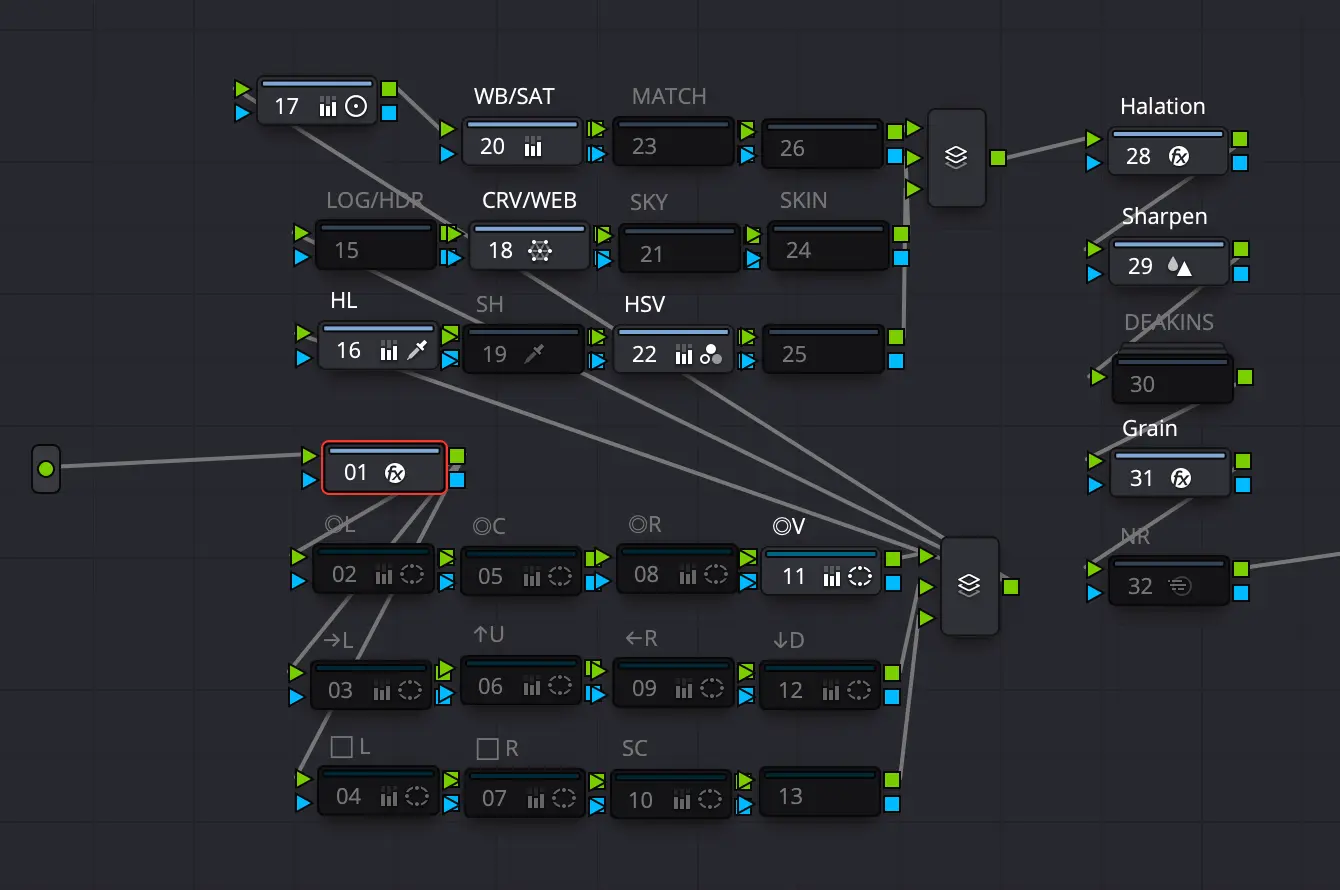
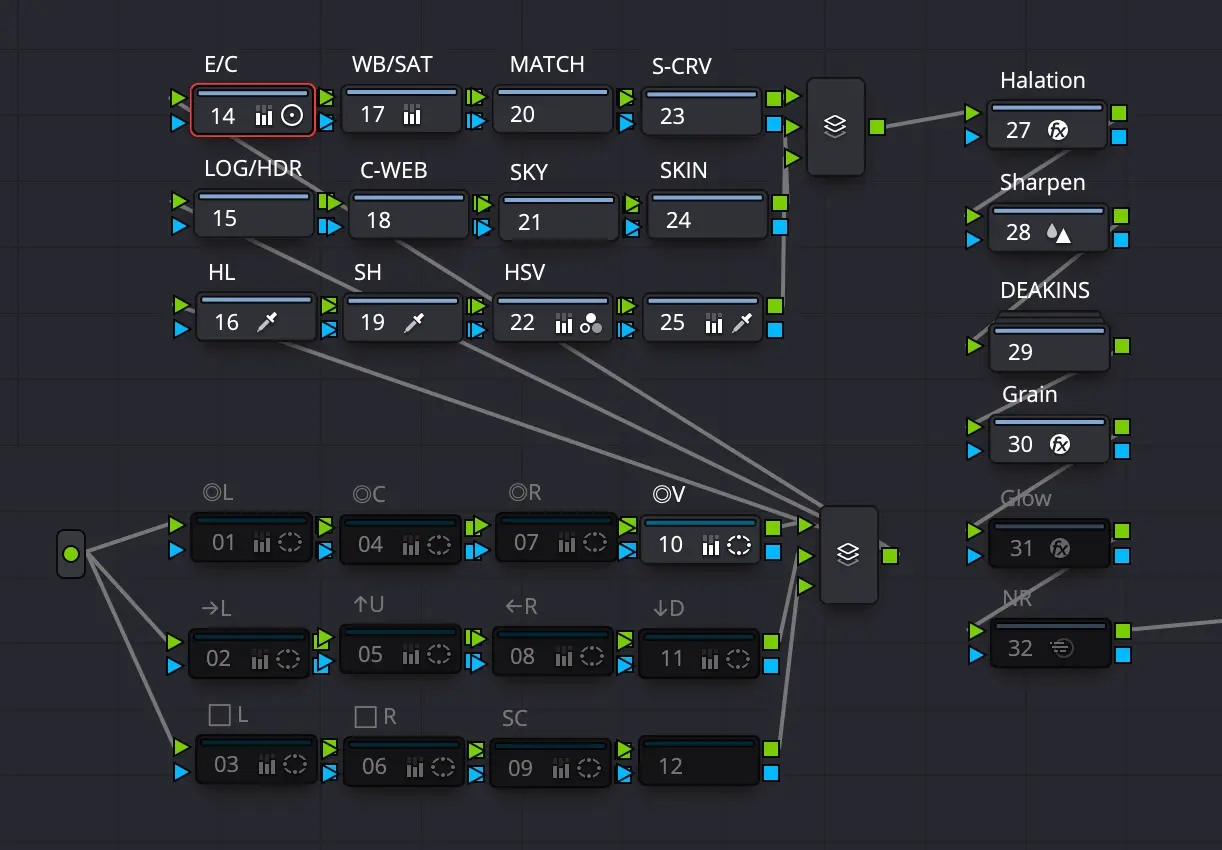
All Links Live

diff --git a/src/components/ShopBars.jsx b/src/components/ShopBars.jsx
@@ -240,7 +240,7 @@ const ASSETS = [
       'Everything from Vol. 1 is included, plus more. Inside you\'ll find everything from aggressive impacts, bass hits, whooshes, and car sounds to organic textures, nature sounds, and experimental ambiances that glue your edits together.',
     ],
     includes: [
-      'ZIP (1.2GB) — 691 WAV files, 19 categories',
+      'ZIP (1.2GB), 691 WAV files, 19 categories',
     ],
     perks: [
       'Compatible with any editing software',
@@ -255,13 +255,15 @@ const ASSETS = [
     slug: 'ovrly',
     title: 'Cinestoke Overlays Pack',
     price: '$20.00',
+    checkoutUrl: 'https://buy.polar.sh/polar_cl_XxUBo1FdsIkNGW1yxyiqyk3azHGZUT2e8d1MZ30ra3L',
     tagline: 'Film grain, light leaks & cinematic texture overlays',
     paragraphs: [
       'The exact overlays baked into every Cinestoke production. 185+ assets across 9 categories. Everything you need to add instant cinematic texture to any footage.',
       "Inside you'll find film grain, dust and noise, film burns, lens flares, fire elements, vintage VHS and Super 8 textures, whip transitions, and a full library of texture stills. Drag, drop, set the blend mode to Screen or Overlay, and you're done.",
     ],
     includes: [
-      'ZIP (3.03GB) — 185 files, 9 categories',
+      'ZIP (1.83GB), Main pack',
+      'ZIP (1.2GB), Vintage pack',
     ],
     perks: [
       'Compatible with any editing software',
@@ -283,7 +285,7 @@ const ASSETS = [
       'Inside you\'ll find car sounds, impacts, bass hits, whooshes, braams, risers, nature sounds, punch sounds, and filmic textures that make every cut land harder.',
     ],
     includes: [
-      'ZIP (872.4MB) — 517 WAV files, 12 categories',
+      'ZIP (872.4MB), 517 WAV files, 12 categories',
     ],
     perks: [
       'Compatible with any editing software',
@@ -306,12 +308,18 @@ const GRADE_PACK = {
   slug: 'lutpg',
   title: 'Cinestoke LUTs + Powergrades',
   price: '$35.00',
+  checkoutUrl: 'https://buy.polar.sh/polar_cl_jh480rUCVqaieESyP9kCnhcGnZEe9ffImmwRh2UA9wc',
   icon: '🎨',
   paragraphs: [
-    'In this pack you will receive all my specially designed LUTs and my easy "One Click" Powergrades to enhance your videos to look straight out of a movie! Color grading can be hard for many, but these assets are simple and highly effective on your raw footage!',
-    'Includes 4 Powergrades: a clean Base grade with no exposure adjustments, plus De Drago, Glass, and Champagne Pow. These LUTs and Powergrades work best in DaVinci Resolve, but can be used in other software as well.',
+    'The exact LUTs and Powergrades behind every Cinestoke color grade. 4 Powergrades built for DaVinci Resolve and 3 matching .cube LUTs compatible with any software that accepts .cube files.',
+    'This is not a filter. It\'s the professional way to treat footage without 10,000 hours of learning time. Each Powergrade is a full node tree: exposure, white balance, saturation, skin, halation, grain, sharpen, and more. The CINESTOKE base grade ships with every node at neutral so you can build your own look from scratch. De Drago, Glass, and Champagne Pow are finished looks built on top of that same structure.',
   ],
-  includes: ['ZIP (94MB)', 'ZIP (82MB)'],
+  includes: ['ZIP (6.5MB), 4 Powergrades (.drx) + 3 LUTs (.cube)'],
+  perks: [
+    'Powergrades built for DaVinci Resolve',
+    'Download right after your purchase',
+    'Use in any project, for any client',
+  ],
   cover: lutsCover,
 };
 
@@ -1037,12 +1045,39 @@ const ShopBars = ({ onToggleLightMode }) => {
 
               <button
                 className="shop-add-to-cart"
-                style={{ display: 'block', width: '100%', padding: '16px', background: 'rgba(255,255,255,0.08)', color: 'rgba(255,255,255,0.35)', border: 'none', cursor: 'default', fontFamily: "'Bebas Neue', Impact, sans-serif", fontSize: '17px', letterSpacing: '4px', marginBottom: '20px', transition: 'opacity 0.2s ease' }}
-              >Coming Soon</button>
+                style={{
+                  display: 'block', width: '100%', padding: '16px',
+                  background: selectedGrade.checkoutUrl ? '#fff' : 'rgba(255,255,255,0.08)',
+                  color: selectedGrade.checkoutUrl ? '#000' : 'rgba(255,255,255,0.35)',
+                  border: 'none', cursor: selectedGrade.checkoutUrl ? 'pointer' : 'default',
+                  fontFamily: "'Bebas Neue', Impact, sans-serif",
+                  fontSize: '17px', letterSpacing: '4px',
+                  marginBottom: '20px', transition: 'opacity 0.2s ease',
+                }}
+                onMouseEnter={e => { if (selectedGrade.checkoutUrl) e.currentTarget.style.opacity = '0.85'; }}
+                onMouseLeave={e => { if (selectedGrade.checkoutUrl) e.currentTarget.style.opacity = '1'; }}
+                onClick={() => selectedGrade.checkoutUrl && window.open(selectedGrade.checkoutUrl, '_blank')}
+              >{selectedGrade.checkoutUrl ? 'Buy Now' : 'Coming Soon'}</button>
 
               {selectedGrade.paragraphs.map((p, i) => (
                 <p key={i} style={{ fontFamily: "'Inter', -apple-system, BlinkMacSystemFont, 'Segoe UI', sans-serif", fontSize: '15px', letterSpacing: 0, color: 'rgba(255,255,255,0.7)', lineHeight: 1.8, margin: '0 0 16px', fontWeight: 400 }}>{p}</p>
               ))}
+
+              {selectedGrade.perks && (
+                <ul style={{ listStyle: 'none', padding: 0, margin: '8px 0 28px' }}>
+                  {selectedGrade.perks.map(perk => (
+                    <li key={perk} style={{
+                      fontFamily: "'Inter', -apple-system, BlinkMacSystemFont, 'Segoe UI', sans-serif",
+                      fontSize: '14px', letterSpacing: 0, fontWeight: 400,
+                      color: 'rgba(255,255,255,0.65)', padding: '5px 0',
+                      display: 'flex', alignItems: 'center', gap: '10px',
+                    }}>
+                      <span style={{ color: '#fff', fontSize: '12px' }}>✓</span>
+                      {perk}
+                    </li>
+                  ))}
+                </ul>
+              )}
 
               <p style={{ fontFamily: "'Inter', -apple-system, BlinkMacSystemFont, 'Segoe UI', sans-serif", fontSize: '15px', letterSpacing: 0, fontWeight: 400, color: 'rgba(255,255,255,0.7)', lineHeight: 1.8, margin: '16px 0 32px' }}>
                 Have any issues?{' '}
@@ -1089,19 +1124,22 @@ const ShopBars = ({ onToggleLightMode }) => {
                 style={{ width: '100%', height: 'auto', display: 'block', marginBottom: '20px', border: '1px solid rgba(255,255,255,0.08)' }}
               />
               <p style={{ fontFamily: "'Inter', -apple-system, BlinkMacSystemFont, 'Segoe UI', sans-serif", fontSize: '15px', letterSpacing: 0, color: 'rgba(255,255,255,0.65)', lineHeight: 1.8, margin: '0 0 48px', fontWeight: 400 }}>
-                Simple. Clean. Apply the Powergrade, add contrast, turn on the effects, and maybe dial in some extra color — you're ready to go.
+                Apply the grade, set your exposure, add color, toggle on the effects. Same workflow every time. It's faster, and it keeps your work consistent.
               </p>
 
               {/* Tutorial */}
               <h3 style={{ fontFamily: "'Bebas Neue', Impact, sans-serif", fontSize: '32px', letterSpacing: '3px', color: '#fff', margin: '0 0 20px' }}>THE TUTORIAL</h3>
-              <div style={{ aspectRatio: '16/9', background: 'rgba(255,255,255,0.04)', border: '1px solid rgba(255,255,255,0.1)', display: 'flex', flexDirection: 'column', alignItems: 'center', justifyContent: 'center', gap: '16px' }}>
-                <div style={{ width: '56px', height: '56px', borderRadius: '50%', border: '2px solid rgba(255,255,255,0.4)', display: 'flex', alignItems: 'center', justifyContent: 'center' }}>
-                  <svg width="20" height="20" viewBox="0 0 24 24" fill="rgba(255,255,255,0.4)"><polygon points="5,3 19,12 5,21" /></svg>
-                </div>
-                <p style={{ fontFamily: 'Impact, sans-serif', fontSize: '13px', letterSpacing: '3px', color: 'rgba(255,255,255,0.3)', margin: 0 }}>COMING SOON</p>
+              <div style={{ position: 'relative', aspectRatio: '16/9', overflow: 'hidden' }}>
+                <iframe
+                  src="https://www.youtube.com/embed/tRQBeyuJCr0?cc_load_policy=0"
+                  title="Cinestoke LUTs + Powergrades Tutorial"
+                  allow="accelerometer; autoplay; clipboard-write; encrypted-media; gyroscope; picture-in-picture"
+                  allowFullScreen
+                  style={{ position: 'absolute', top: 0, left: 0, width: '100%', height: '100%', border: 'none' }}
+                />
               </div>
               <p style={{ fontFamily: "'Inter', -apple-system, BlinkMacSystemFont, 'Segoe UI', sans-serif", fontSize: '13px', letterSpacing: 0, color: 'rgba(255,255,255,0.4)', lineHeight: 1.7, margin: '12px 0 48px' }}>
-                A full walkthrough of how to install and apply the Powergrades in DaVinci Resolve — from importing the pack to applying your first grade.
+                A full walkthrough of how to install and apply the Powergrades in DaVinci Resolve. From importing the pack to applying your first grade.
               </p>
 
               {/* Examples */}
@@ -1113,12 +1151,16 @@ const ShopBars = ({ onToggleLightMode }) => {
                 <p style={{ fontFamily: 'Impact, sans-serif', fontSize: '13px', letterSpacing: '3px', color: 'rgba(255,255,255,0.3)', margin: 0 }}>COMING SOON</p>
               </div>
               <p style={{ fontFamily: "'Inter', -apple-system, BlinkMacSystemFont, 'Segoe UI', sans-serif", fontSize: '13px', letterSpacing: 0, color: 'rgba(255,255,255,0.4)', lineHeight: 1.7, margin: '12px 0 40px' }}>
-                Real client footage graded with this pack — showing what's possible straight out of the box with no extra adjustments.
+                Real client footage graded with this pack.
               </p>
 
               <button
-                style={{ display: 'block', width: '100%', padding: '15px', background: 'rgba(255,255,255,0.08)', color: 'rgba(255,255,255,0.35)', border: '1px solid rgba(255,255,255,0.12)', cursor: 'default', fontFamily: "'Bebas Neue', Impact, sans-serif", fontSize: '17px', letterSpacing: '4px' }}
-              >Coming Soon</button>
+                className="shop-add-to-cart"
+                style={{ display: 'block', width: '100%', padding: '15px', background: '#fff', color: '#000', border: 'none', cursor: 'pointer', fontFamily: "'Bebas Neue', Impact, sans-serif", fontSize: '17px', letterSpacing: '4px', transition: 'opacity 0.2s ease' }}
+                onMouseEnter={e => { e.currentTarget.style.opacity = '0.85'; }}
+                onMouseLeave={e => { e.currentTarget.style.opacity = '1'; }}
+                onClick={() => window.open('https://buy.polar.sh/polar_cl_jh480rUCVqaieESyP9kCnhcGnZEe9ffImmwRh2UA9wc', '_blank')}
+              >Buy Now $35</button>
             </div>
           </div>
 
@@ -1210,7 +1252,7 @@ const ShopBars = ({ onToggleLightMode }) => {
               margin: '0 auto',
               lineHeight: 1.7,
             }}>
-              The exact site you're on — yours, with your brand, your clients, your reel.
+              The exact site you're on. Yours, with your brand, your clients, your reel.
             </p>
           </div>
 
@@ -1280,10 +1322,10 @@ const ShopBars = ({ onToggleLightMode }) => {
             }}>HOW IT WORKS</p>
             <div style={{ display: 'grid', gridTemplateColumns: isMobile ? '1fr' : '1fr 1fr', gap: '10px', marginBottom: '40px' }}>
               {[
-                ['01 — SEND YOUR ASSETS', 'Your reels, client videos, logos, and anything else that represents your work.'],
-                ['02 — I BUILD YOUR SITE', 'Customized with your brand, your clients, and your case studies — on this exact stack.'],
-                ['03 — YOUR SITE GOES LIVE', 'On your own domain, fully tested on mobile and desktop, ready to close clients.'],
-                ['04 — I MANAGE EVERYTHING', 'New reel, new client, new copy — just send it over and it\'s handled.'],
+                ['01 SEND YOUR ASSETS', 'Your reels, client videos, logos, and anything else that represents your work.'],
+                ['02 I BUILD YOUR SITE', 'Customized with your brand, your clients, and your case studies on this exact stack.'],
+                ['03 YOUR SITE GOES LIVE', 'On your own domain, fully tested on mobile and desktop, ready to close clients.'],
+                ['04 I MANAGE EVERYTHING', 'New reel, new client, new copy. Just send it over and it\'s handled.'],
               ].map(([step, detail]) => (
                 <div key={step} style={{
                   padding: '22px 24px',